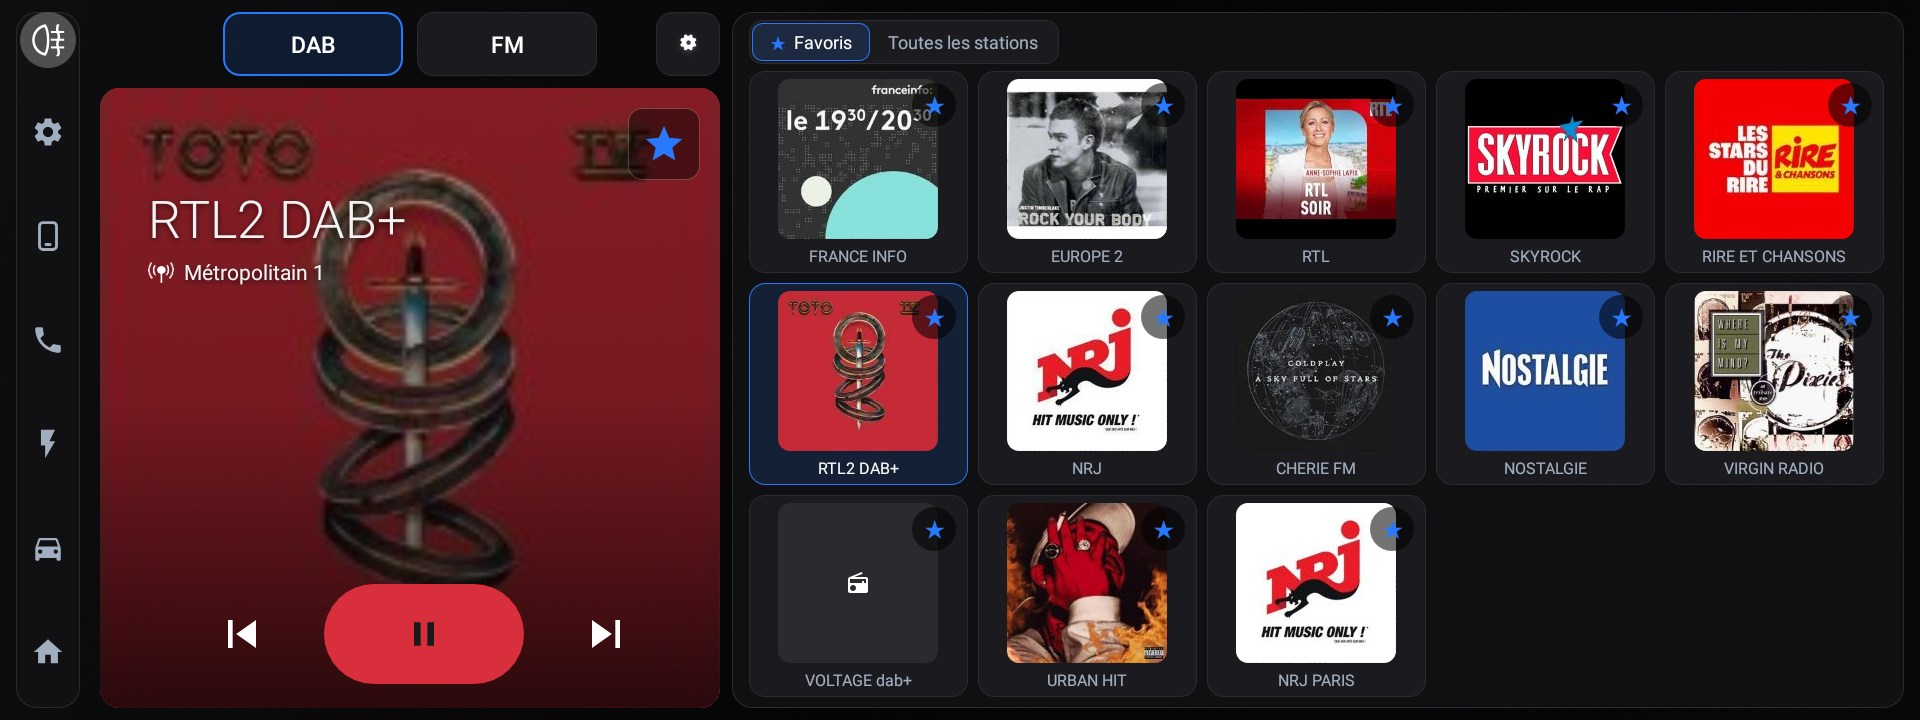
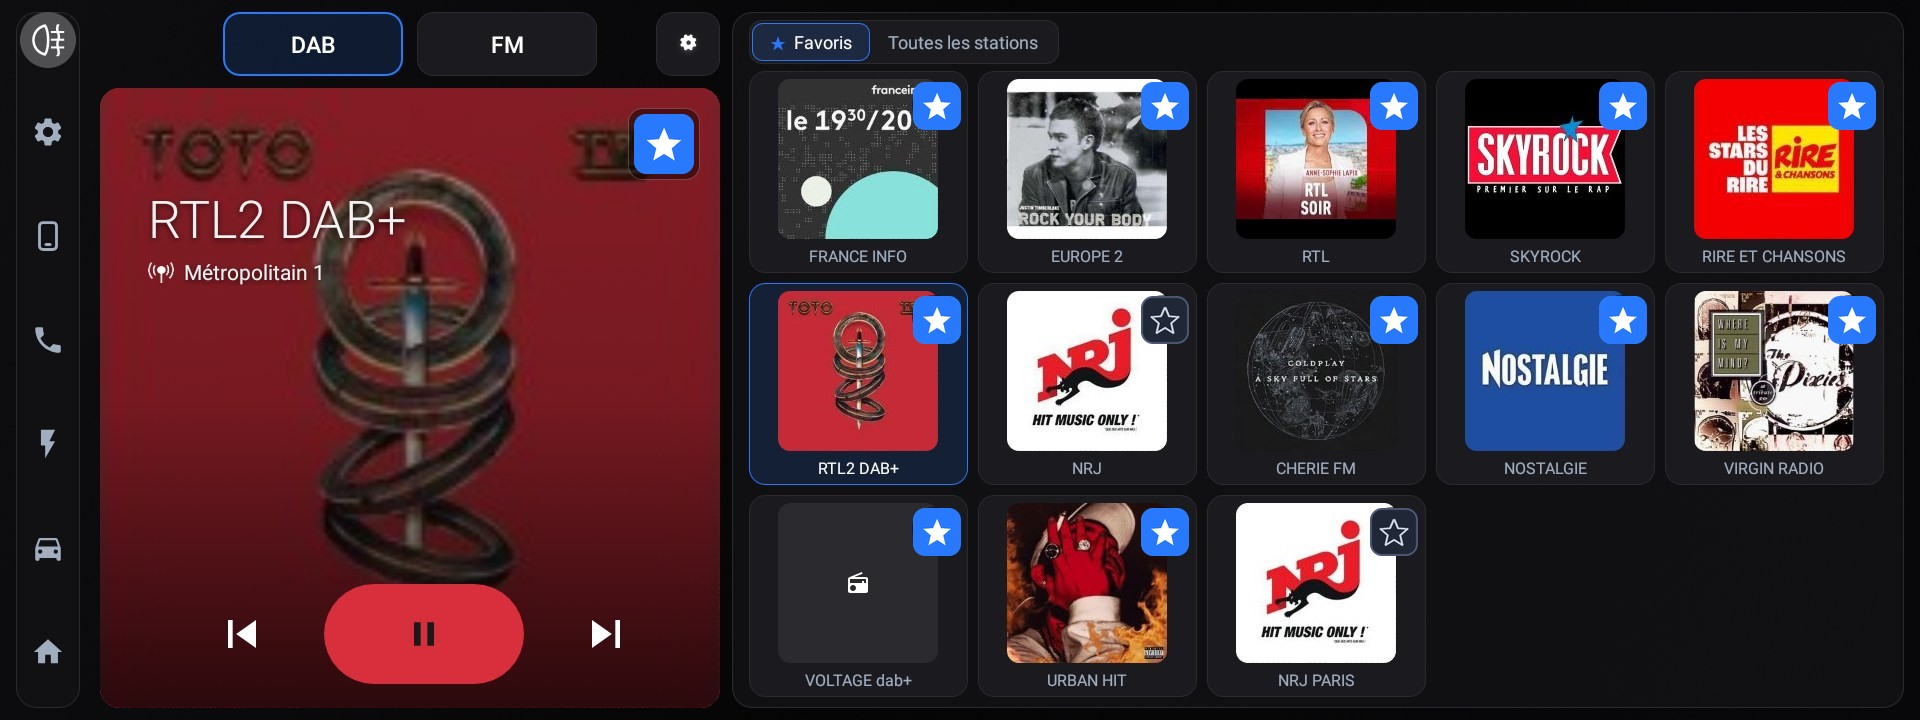
1.6.3: official version (betas 1 to 4); README and main screenshot with the new favourite star

diff --git a/release-notes/v1.6.3.md b/release-notes/v1.6.3.md
@@ -1,0 +1,31 @@
+**This update downloads about 8.6 MB of data: better on Wi-Fi from a phone hotspot, or over USB if possible.**
+
+**Radio Dash 1.6.3** — everything since 1.6.2 (betas 1 to 4). Install over 1.6.2 or any beta.
+
+- **MG4Dash no longer switches back to DAB+ while you listen to FM** ([MG4Dash #80](https://github.com/Skittle6938/MG4Dash/issues/80)): the DAB+ tuner keeps receiving in the background during FM, and its info no longer reaches MG4Dash unless the radio is on DAB+.
+- **DAB+ picture kept**: on a station that sends no logo, the player and MG4Dash keep its last slideshow picture.
+- **RDS accents shown** (é, è, à, ç…) in the radio text and station names, in Radio Dash and in MG4Dash.
+- **RDS station name in MG4Dash**: Radio Dash sends MG4Dash the name it receives with the frequency, so the music card shows the name instead of the frequency.
+- **Left bar at full height** when MG4Dash's *Shortcuts menu* option hides MG's fog light button.
+- **Favourite star easier to see**: on the station tiles of every band (DAB+, FM, AM), a rounded square filled with the theme colour and a white star for a favourite, a dark square with a light hollow star otherwise; the star button of the station playing has the same look, a bit bigger.
+- **Android Auto button follows MG4Dash** ([#5](https://github.com/Skittle6938/MG4Radio/issues/5)): the button of the bars opens what MG4Dash's button opens (Android Auto, CarPlay or the app chosen with a long press on it in MG4Dash), with its name and icon. Needs **MG4Dash 1.7.3**; with an older MG4Dash it keeps opening Android Auto.
+
+Install from MG4Dash (Settings > System > Update > Update Radio Dash), or like before (`adb push` + `pm install -r -f`, or USB stick), then **reboot the head unit** (hold Home about 20 s): the steering wheel buttons don't reach the radio until you do.
+
+<details><summary>Français</summary>
+
+**Cette mise à jour télécharge environ 8,6 Mo de données : de préférence en Wi-Fi depuis un partage de connexion, ou par USB si possible.**
+
+**Radio Dash 1.6.3** — tout depuis la 1.6.2 (bêtas 1 à 4). À installer par-dessus la 1.6.2 ou une bêta.
+
+- **MG4Dash ne repasse plus en DAB+ quand vous écoutez la FM** ([MG4Dash #80](https://github.com/Skittle6938/MG4Dash/issues/80)) : le tuner DAB+ continue de recevoir en arrière-plan pendant la FM, et ses infos n'arrivent plus à MG4Dash que si la radio est en DAB+.
+- **Image DAB+ gardée** : sur une station qui n'envoie pas de logo, le lecteur et MG4Dash gardent sa dernière image du diaporama.
+- **Accents RDS affichés** (é, è, à, ç…) dans le texte radio et les noms de stations, dans Radio Dash et dans MG4Dash.
+- **Nom RDS de la station dans MG4Dash** : Radio Dash envoie à MG4Dash le nom reçu avec la fréquence, la carte musique affiche le nom au lieu de la fréquence.
+- **Barre gauche sur toute la hauteur** quand l'option *Menu de raccourcis* de MG4Dash masque le bouton antibrouillards.
+- **Étoile des favoris plus visible** : sur les vignettes de toutes les bandes (DAB+, FM, AM), un carré arrondi plein de la couleur du thème avec une étoile blanche pour un favori, un carré sombre avec une étoile creuse claire sinon ; le bouton étoile de la station en cours a le même aspect, un peu plus gros.
+- **Le bouton Android Auto suit MG4Dash** ([#5](https://github.com/Skittle6938/MG4Radio/issues/5)) : le bouton des barres ouvre ce qu'ouvre le bouton de MG4Dash (Android Auto, CarPlay ou l'appli choisie par appui long dans MG4Dash), avec son nom et son icône. Nécessite **MG4Dash 1.7.3** ; avec un MG4Dash plus ancien, il ouvre toujours Android Auto.
+
+Installation depuis MG4Dash (Réglages > Système > Mise à jour > Mettre à jour Radio Dash), ou comme avant (`adb push` + `pm install -r -f`, ou clé USB), puis **redémarrez l'autoradio** (Accueil maintenu environ 20 s) : les boutons du volant n'atteignent la radio qu'après.
+
+</details>

diff --git a/README.md b/README.md
@@ -30,7 +30,9 @@ On the player, **◀ ▶** go to the previous / next station of the list; a **lo
 
 ### What's new in this fork
 
-**[1.6.3 beta 4](https://github.com/Skittle6938/MG4Radio/releases/tag/v1.6.3-beta.4) (in testing)**
+**[1.6.3](https://github.com/Skittle6938/MG4Radio/releases/tag/v1.6.3) (latest)**: everything in 1.6.3 beta 1 to 4 below: MG4Dash no longer switching back to DAB+ on FM, DAB+ pictures and RDS accents kept, the RDS station name sent to MG4Dash, the left bar at full height when MG4Dash hides the fog light button, an easier to see favourite star, and the Android Auto button following MG4Dash's choice (Android Auto, CarPlay or an app, with its icon). Needs MG4Dash 1.7.3 for the last one.
+
+**[1.6.3 beta 4](https://github.com/Skittle6938/MG4Radio/releases/tag/v1.6.3-beta.4)**
 - **Favourite star easier to see**: a rounded square filled with the theme colour and a white star for a favourite, a dark square with a light hollow star otherwise, on the station tiles of every band and on the star button of the station playing.
 - **Android Auto button icon** ([#5](https://github.com/Skittle6938/MG4Radio/issues/5)): CarPlay's icon or the chosen app's icon when MG4Dash's button opens them.
 
@@ -46,7 +48,7 @@ On the player, **◀ ▶** go to the previous / next station of the list; a **lo
 - **DAB+ picture kept on the player and in MG4Dash**: on a station that sends no logo, the player and MG4Dash showed no picture 5 minutes after the last slideshow, while the station list kept it. They now show that last picture too (recent slideshow, then logo, then last slideshow picture).
 - **RDS accents shown**: RDS has its own character set (é, è, à, ç… are not coded as in Latin-1), and the tuner passes the bytes as they are, so accented letters were invisible. Radio text and station names are now converted, in Radio Dash and in MG4Dash.
 
-**[1.6.2](https://github.com/Skittle6938/MG4Radio/releases/tag/v1.6.2) (latest)**: everything in 1.6.2 beta 1 to 8 below, with DAB+ slideshow pictures shown for 5 minutes at most then the station logo, AM as an option in MG4Dash, the vertical bar following MG4Dash's side and width, the reworked station box, and fixes for older firmwares (SWI68, SWI165…).
+**[1.6.2](https://github.com/Skittle6938/MG4Radio/releases/tag/v1.6.2)**: everything in 1.6.2 beta 1 to 8 below, with DAB+ slideshow pictures shown for 5 minutes at most then the station logo, AM as an option in MG4Dash, the vertical bar following MG4Dash's side and width, the reworked station box, and fixes for older firmwares (SWI68, SWI165…).
 
 **[1.6.2 beta 8](https://github.com/Skittle6938/MG4Radio/releases/tag/v1.6.2-beta.8)**
 - **DAB+ station logos kept, slideshow pictures only while they are current**: a DAB+ station sends two kinds of pictures. Its **logo** comes with the programme guide (SPI) and the radio keeps it per station; its **slideshow** (covers, hosts, ads…) changes all the time. A slideshow picture is now shown for **5 minutes at most**, or until the next one. After that, the player and MG4Dash show the station logo, or no picture when the station has never sent one.
